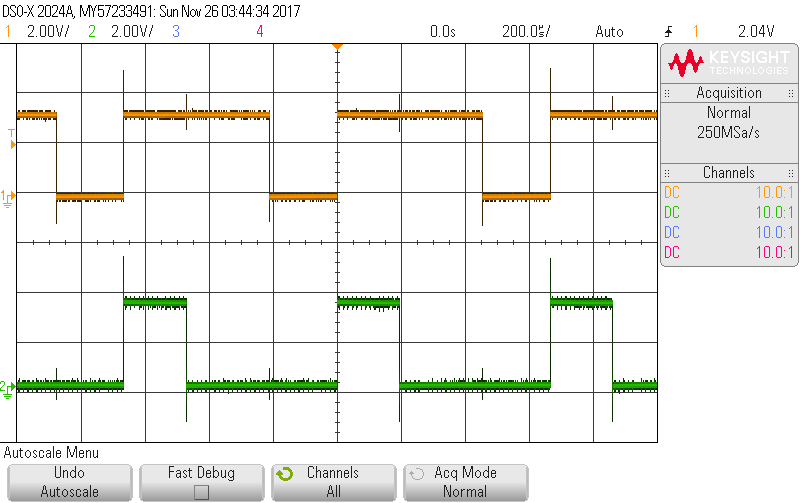
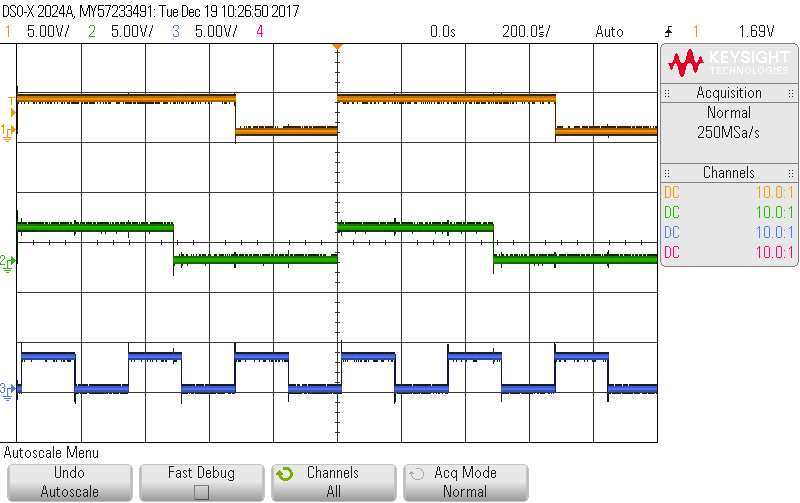
PWM

diff --git a/bin/flash.py b/bin/flash.py
@@ -7,7 +7,21 @@ fw_dir  = os.path.join(iot_dir, 'firmware/dist')
 port = os.getenv('RSHELL_PORT')
 
 with open(os.path.join(fw_dir, 'flash_cmd'), 'r') as f:
-    flash_cmd = f.read()
+    flash_parameters = f.read()
+
+flash_cmd = "esptool.py --port {} {}".format(port, flash_parameters)
+
+print('Flash MicroPython to ESP32')
+print('Home directory:           ', os.path.expanduser('~'))
+print('IoT49 root:               ', iot_dir)
+print('Firmware directory:       ', fw_dir)
+print('USB Port:                 ', port)
+print()
+print('Flash parameters:         ', flash_parameters)
+print()
+print('Flash command:            ', flash_cmd)
+print()
 
 os.chdir(fw_dir)
-os.system("esptool.py --port {} {}".format(port, flash_cmd))
+print('Flashing .........................................................')
+os.system(flash_cmd)

diff --git a/doc/digital_io.md b/doc/digital_io.md
@@ -72,38 +72,59 @@ The values of the pull-down and pull-up resistors vary from chip-to-chip and pin
 ## <a name="pwm">PWM</a>
 
 
-Pins can be configured to output a square wave without further CPU intervention.
+Pins can be configured to output a square wave without further CPU intervention. Four independent timers are available, each capable of running at a different frequency. Pins can share a timer to produce equal output frequencies (but possibly different duty cycles).
 
 [Example](../esp32/examples/pwm.py):
 
 ```python
 from machine import PWM, Pin
 from board import *
-import time
+from time import sleep
 
 # declare pins
 pin1 = Pin(A18, mode=Pin.OUT)
 pin2 = Pin(A19, mode=Pin.OUT)
+pin3 = Pin(A20, mode=Pin.OUT)
 
 # initialize PWM
-pwm1 = PWM(pin1, freq=1000)
-pwm2 = PWM(pin2, freq=1000)
+pwm1 = PWM(pin1, timer=0)
+pwm2 = PWM(pin2, timer=0)
+pwm3 = PWM(pin3, timer=1)
+
+# set frequency
+# Note pwm1.freq() == pwm2.freq() since they use the same timer
+pwm1.freq(1000)
+pwm3.freq(3000)
 
 # set duty cycle (0 ... 1023)
-pwm1.duty(300)
-pwm2.duty(700)
+pwm1.duty(700)
+pwm2.duty(300)
+pwm3.duty(500)
+
+print("pwm1:", pwm1)
+print("pwm2:", pwm2)
+print("pwm3:", pwm3)
 
 # go about other business (or just take a nap)
-time.sleep(10000)
 
+sleep(100)
 # release PWM circuitry for later reuse
 pwm1.deinit()
 pwm2.deinit()
+pwm3.deinit()
+
 ```
 
 Oscilloscope screen shot:
 
 ![PWM Screen shot](pwm.png)
+
+The duty cycle, 0 ... 1023, is the number of cycles (of 1024 total in the period) during which the output stays high. Note that with duty=1023 the output is low for one cycle.
+
+Example: same code as above with duty set to 1022, 1024, and 0. 
+
+![PWM Screen shot](pwm_duty.png)
+
 
 ## <a name="interrupts">Interrupts</a>
 

diff --git a/doc/wifi.md b/doc/wifi.md
@@ -11,6 +11,19 @@ The file `mcu/boot.py` is executed every time the ESP32 boots and contains the c
 
 Do not forget to run `sync.py` to upload the edited `boot.py` to the ESP32!
 
+## Firewall
+
+Some WiFi setups or host computers use a firewall which may have to be configured. We will be using the following ports:
+
+    | Service | Port number
+    +---------+------------
+    | telnet  | 23
+    | ftp     | 21
+    | mqtt    | 1883, 8883
+    | http    | 80, 443
+    
+If the ESP32 is not able to connect (e.g. to the MQTT boker), or the host cannot connect to the ESP32 (e.g. the Atom console), it may be a firewall issue. Please contact the network administrator for assistance.
+
 ## Programming the ESP32 over WiFi
 
 Once the credentials are entered in `boot.py` and wireless service has started, you can configure the Atom IDE to wirelessly program the ESP32. This is very convenient if the microcontroller is in a difficult to reach location e.g. on a moving robot or buried inside a machine.
